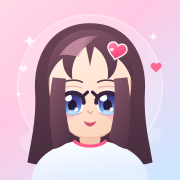
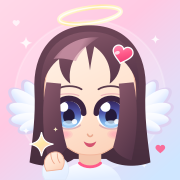
心屿头像v2: 天使降临漫头风重绘(光环+翅膀+四角星·大头·品牌色) + sw升v28

diff --git a/ai-girlfriend/sw.js b/ai-girlfriend/sw.js
@@ -1,5 +1,5 @@
 /* 小暖 PWA Service Worker —— 缓存应用外壳，支持离线打开 + 触发"安装到主屏幕" */
-const CACHE = "xiaonuan-v27";   // v27 U-9：项目头像资产变更（icon-xinyu.svg / icon-192.png / icon-512.png / apple-touch-icon.png）—— 由原占位手绘风重制为卡通动漫（二次元）风格头像（可爱少女 / 大眼 / 爱心发夹 #ff5b8a / 粉→蓝渐变底）；本轮仅图标四个资产变更，engine/memory/presence/texture/contingency 五模块继续零改动，PR 体积 = 三张新 PNG + 1 SVG。旧键 xiaonuan-v26 的 C0-b 责任：所有老用户必须丢弃旧缓存拉新图。 // v25 v22 收线：本次升版覆盖**两笔**资产变更 —— ① engine.js（:1307 PERSONA_BREAK_RE 人称绑定组的连接词枚举追加「从?本质上讲?|归根结底|说白了」，+41B，闭合 H13 的三类自曝句式；H13 是 0% 一票否决项，护栏口径收紧了却不下发＝等于没修）；② contingency.js（:33 sfType() 增加 repair 分支，方案 E 含当日冲突门 O(s.negGate).count>0，+38B）。memory/presence/texture 三模块本轮源码零改动 —— 它们只回让**配额** 13/13/14B 予 engine，diff=0 硬闸继续生效。★ 升键判据（DESIGN-v22 §4.3 C0-b 形式化）：升键 ⇔ 资产内容变更 ∧ 当前键已发布。条件① 成立；条件② **不可判定**（manifest.released 仍锚 xiaonuan-v23，字面表明 v24 未移入受控基线；但 v21 收线 commit 已 push，若部署面直接服务仓库内容则 v24 事实上已发布）。在 ② 不可判定时取**保守分支**：漏升＝C0-b 事故第四犯（v13 原始事故 / v20 欠账 / v21 同族事故已三犯），多升只是老用户一次无感的缓存重建 —— 误判代价严重不对称，在 H13 资产已变的前提下不接受任何形态的赌博。★ manifest.released 块本轮**逐字不动**（C-2：released 只在真正发版时移动，需三方会签且必须独立提交；顺手推进它会把守卫的反逃逸参照系抬到当前值，永久洗白 v20/v21 两笔历史逃逸）// v24 v21 收线：本次升版一次性覆盖**两笔**资产变更 —— ① 补还 v20 欠账：v20 已改 contingency.js（R-S2 四型各 3→6 条）却未升键，老用户 fetch 仍命中 xiaonuan-v23 里的旧语料，属 C0-b 同族事故（改了被缓存文件却不换缓存键＝加固/上新等于没上线）；② v21 本轮 contingency.js 再次改动（SFT 追加第 5 语料型 repair，+356B）。engine.js 与 memory/presence/texture 三模块本轮零改动。★ 自 v24 起，「资产内容 ↔ 缓存键」不再靠人工自觉：test/sw-assets-manifest.json 持有每个 ASSETS 成员的 sha256，test/qa-v21-sw-guard.js 在 CI 现算比对，内容变而键未升即转红（DESIGN-v21 §1.3 三层缺口 / §7）。sw.js 不计入 engine+四模块体积口径，升版不消耗四锁预算 // v23 v18 收线：engine.js（:1310 pnorm 归一化真源追加 seg2 零宽黑名单剥离 /[\u200B\u200C\u200D\uFEFF]/g，+42B，段序 NFKC→零宽→\s+→折叠）是本轮唯一改动的被缓存文件 —— memory/presence/texture/contingency 四模块源码全程冻结（DESIGN-v18 §1.4，各仅余 32B 缓冲）。破墙判定口径收紧了就必须换键，否则老用户 fetch 命中旧缓存＝加固等于没上线（v13 C0-b 事故成因） // v22 v17 收线：engine.js（S-1b pnorm 归一化真源 :1310 + :1322 收口 + R2-A5b 回避型终止语 :1350 + 归一化接线 ×6 + Q-P2-D11 selfTick 防重放 :3613/:3636/:3637 + pnorm 导出 :3993）、memory.js（删 JOBX，taint/weave 走 E.pnorm）、presence.js（:22）、texture.js（:59）、contingency.js（L5 走 E.pnorm + R-S2 四型自我表达）五个被缓存文件全部改动，破墙护栏口径变了必须让旧缓存失效 // v21 v16 收线：ASSETS 清单未变，但 engine.js（V16-2 破墙表 :1307 四轴扩展，H13 升级为六维全组合闭环）与 app.js（V16-1 R2-B4 affHistory 改 dayIndex 比较器）两个被缓存文件已改动（memory.js 本期零改动：A2-i 的 tgf key 派生早已在源码中，本轮只摘 todo）。缓存键不换＝老用户 fetch 命中旧缓存，新旧模块混装（护栏改了却不下发，等于没上线）—— 这正是 v13 C0-b 事故的成因，故只要任一被缓存文件的内容变了就升版，不只是清单变了才升 // v20 v15 收线：engine.js（NOTE-2「模型」裸词分层 :1307）与 contingency.js（R-C5 c4 好奇追问 / c5 共同回忆）已改动
+const CACHE = "xiaonuan-v28";   // v28 U-10：天使降临漫头风重绘（icon-xinyu.svg / icon-192.png / icon-512.png / apple-touch-icon.png）—— 由上一代半身 chibi 风格全面重制为抖音流行的天使降临萌系大头头像（完整天使元素：头顶光环 + 肩后小翅膀 + 手持四角星 / 漫头风：大头占画面 70%+ / 品牌粉→淡紫→浅蓝渐变底 / 爱心发夹 #ff5b8a / 大眼萌系）；本轮仅图标四个资产变更，engine/memory/presence/texture/contingency 五模块零改动。旧键 xiaonuan-v27 的 C0-b 责任：所有老用户必须丢弃旧缓存拉新图。 // v27 U-9：项目头像资产变更（icon-xinyu.svg / icon-192.png / icon-512.png / apple-touch-icon.png）—— 由原占位手绘风重制为卡通动漫（二次元）风格头像（可爱少女 / 大眼 / 爱心发夹 #ff5b8a / 粉→蓝渐变底）；本轮仅图标四个资产变更，engine/memory/presence/texture/contingency 五模块继续零改动，PR 体积 = 三张新 PNG + 1 SVG。 // v25 v22 收线：本次升版覆盖**两笔**资产变更 —— ① engine.js（:1307 PERSONA_BREAK_RE 人称绑定组的连接词枚举追加「从?本质上讲?|归根结底|说白了」，+41B，闭合 H13 的三类自曝句式；H13 是 0% 一票否决项，护栏口径收紧了却不下发＝等于没修）；② contingency.js（:33 sfType() 增加 repair 分支，方案 E 含当日冲突门 O(s.negGate).count>0，+38B）。memory/presence/texture 三模块本轮源码零改动 —— 它们只回让**配额** 13/13/14B 予 engine，diff=0 硬闸继续生效。★ 升键判据（DESIGN-v22 §4.3 C0-b 形式化）：升键 ⇔ 资产内容变更 ∧ 当前键已发布。条件① 成立；条件② **不可判定**（manifest.released 仍锚 xiaonuan-v23，字面表明 v24 未移入受控基线；但 v21 收线 commit 已 push，若部署面直接服务仓库内容则 v24 事实上已发布）。在 ② 不可判定时取**保守分支**：漏升＝C0-b 事故第四犯（v13 原始事故 / v20 欠账 / v21 同族事故已三犯），多升只是老用户一次无感的缓存重建 —— 误判代价严重不对称，在 H13 资产已变的前提下不接受任何形态的赌博。★ manifest.released 块本轮**逐字不动**（C-2：released 只在真正发版时移动，需三方会签且必须独立提交；顺手推进它会把守卫的反逃逸参照系抬到当前值，永久洗白 v20/v21 两笔历史逃逸）// v24 v21 收线：本次升版一次性覆盖**两笔**资产变更 —— ① 补还 v20 欠账：v20 已改 contingency.js（R-S2 四型各 3→6 条）却未升键，老用户 fetch 仍命中 xiaonuan-v23 里的旧语料，属 C0-b 同族事故（改了被缓存文件却不换缓存键＝加固/上新等于没上线）；② v21 本轮 contingency.js 再次改动（SFT 追加第 5 语料型 repair，+356B）。engine.js 与 memory/presence/texture 三模块本轮零改动。★ 自 v24 起，「资产内容 ↔ 缓存键」不再靠人工自觉：test/sw-assets-manifest.json 持有每个 ASSETS 成员的 sha256，test/qa-v21-sw-guard.js 在 CI 现算比对，内容变而键未升即转红（DESIGN-v21 §1.3 三层缺口 / §7）。sw.js 不计入 engine+四模块体积口径，升版不消耗四锁预算 // v23 v18 收线：engine.js（:1310 pnorm 归一化真源追加 seg2 零宽黑名单剥离 /[\u200B\u200C\u200D\uFEFF]/g，+42B，段序 NFKC→零宽→\s+→折叠）是本轮唯一改动的被缓存文件 —— memory/presence/texture/contingency 四模块源码全程冻结（DESIGN-v18 §1.4，各仅余 32B 缓冲）。破墙判定口径收紧了就必须换键，否则老用户 fetch 命中旧缓存＝加固等于没上线（v13 C0-b 事故成因） // v22 v17 收线：engine.js（S-1b pnorm 归一化真源 :1310 + :1322 收口 + R2-A5b 回避型终止语 :1350 + 归一化接线 ×6 + Q-P2-D11 selfTick 防重放 :3613/:3636/:3637 + pnorm 导出 :3993）、memory.js（删 JOBX，taint/weave 走 E.pnorm）、presence.js（:22）、texture.js（:59）、contingency.js（L5 走 E.pnorm + R-S2 四型自我表达）五个被缓存文件全部改动，破墙护栏口径变了必须让旧缓存失效 // v21 v16 收线：ASSETS 清单未变，但 engine.js（V16-2 破墙表 :1307 四轴扩展，H13 升级为六维全组合闭环）与 app.js（V16-1 R2-B4 affHistory 改 dayIndex 比较器）两个被缓存文件已改动（memory.js 本期零改动：A2-i 的 tgf key 派生早已在源码中，本轮只摘 todo）。缓存键不换＝老用户 fetch 命中旧缓存，新旧模块混装（护栏改了却不下发，等于没上线）—— 这正是 v13 C0-b 事故的成因，故只要任一被缓存文件的内容变了就升版，不只是清单变了才升 // v20 v15 收线：engine.js（NOTE-2「模型」裸词分层 :1307）与 contingency.js（R-C5 c4 好奇追问 / c5 共同回忆）已改动
 const ASSETS = [
   "/", "/index.html", "/style.css", "/engine.js", "/app.js", "/localmodel.js",
   // v13 三模块：与 engine.files.json 的 order 对齐（WR-13 交叉校验）
